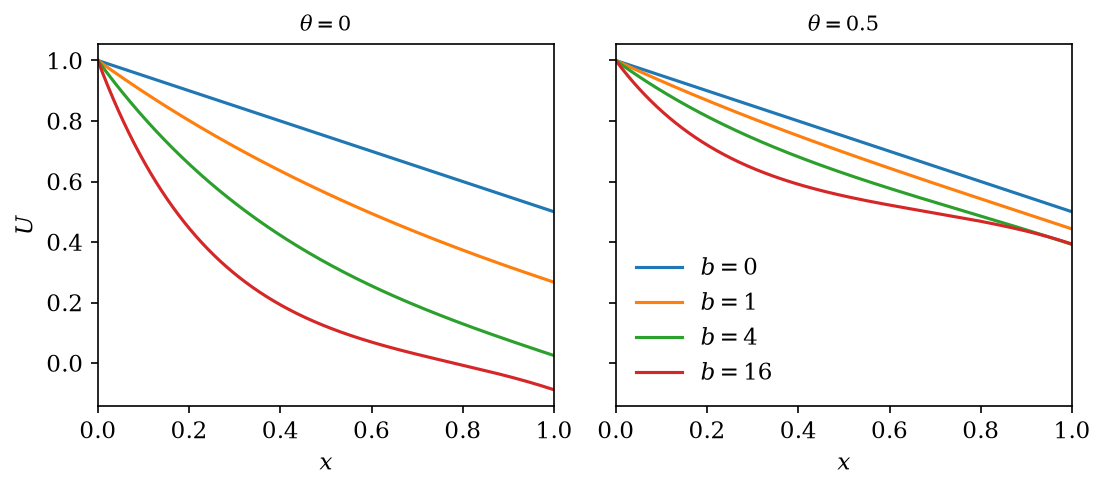
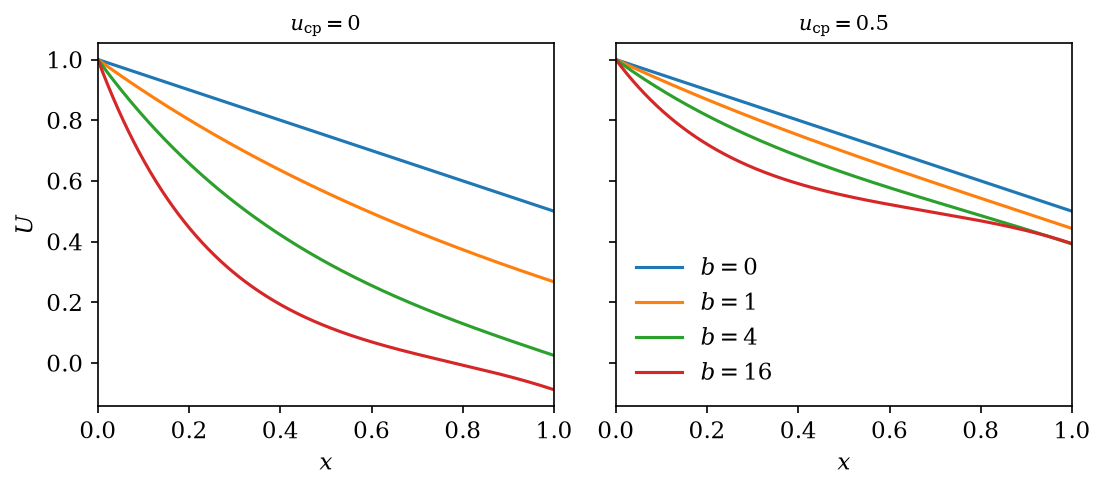
Use u_sr notation, remove lecture references, extra remarks and variant mentions in text

diff --git a/theor_1.tex b/theor_1.tex
@@ -1,5 +1,5 @@
 \section{Вывод уравнения теплопроводности и граничных условий}\label{sec:deriv}
-Рассмотрим тонкий однородный стержень длины $l$, расположенный вдоль оси $Ox$, с постоянным поперечным сечением площади $S$ и периметром сечения $P$. Стержень тонкий, поэтому температуру во всех точках сечения считаем одинаковой и равной $u(x,t)$. Обозначим: $\rho$~--- плотность, $c$~--- удельная теплоёмкость, $k$~--- коэффициент теплопроводности, $F(x,t)$~--- плотность тепловых источников, $\theta(x,t)$~--- температура окружающей среды, $h$~--- коэффициент теплообмена с окружающей средой.
+Рассмотрим тонкий однородный стержень длины $l$, расположенный вдоль оси $Ox$, с постоянным поперечным сечением площади $S$ и периметром сечения $P$. Стержень тонкий, поэтому температуру во всех точках сечения считаем одинаковой и равной $u(x,t)$. Обозначим: $\rho$~--- плотность, $c$~--- удельная теплоёмкость, $k$~--- коэффициент теплопроводности, $F(x,t)$~--- плотность тепловых источников, $u_{\text{ср}}(x,t)$~--- температура окружающей среды, $h$~--- коэффициент теплообмена с окружающей средой.
 
 \textbf{Уравнение.} Выделим малый участок стержня между сечениями $x$ и $x+\Delta x$ и составим для него баланс тепла за время от $t$ до $t+\Delta t$.
 
@@ -15,20 +15,20 @@ Q_1=S\bigl(q(x,t)-q(x+\Delta x,t)\bigr)\Delta t\approx -S\,q_x\,\Delta x\,\Delta
 
 Через боковую поверхность участка (стенки) площадью $P\Delta x$ происходит теплообмен со средой по закону Ньютона: поток пропорционален разности температур стержня и среды. Теплота, полученная участком от среды,
 \[
-Q_2=-h\bigl(u-\theta\bigr)P\,\Delta x\,\Delta t .
+Q_2=-h\bigl(u-u_{\text{ср}}\bigr)P\,\Delta x\,\Delta t .
 \]
 
 Тепло, выделенное источниками, равно $Q_3=F\,S\,\Delta x\,\Delta t$.
 
 Приравнивая $\Delta Q=Q_1+Q_2+Q_3$, деля на $c\rho S\Delta x\Delta t$ и устремляя $\Delta x,\Delta t\to0$, получаем
 \[
-u_t=\frac{k}{c\rho}u_{xx}-\frac{hP}{c\rho S}\bigl(u-\theta\bigr)+\frac{F}{c\rho},
+u_t=\frac{k}{c\rho}u_{xx}-\frac{hP}{c\rho S}\bigl(u-u_{\text{ср}}\bigr)+\frac{F}{c\rho},
 \]
 то есть уравнение задачи
 \[
-u_t=a^2u_{xx}-bu+f(x,t),\qquad a^2=\frac{k}{c\rho},\quad b=\frac{hP}{c\rho S},\quad f=\frac{F}{c\rho}+b\,\theta .
+u_t=a^2u_{xx}-bu+f(x,t),\qquad a^2=\frac{k}{c\rho},\quad b=\frac{hP}{c\rho S},\quad f=\frac{F}{c\rho}+b\,u_{\text{ср}} .
 \]
-Для круглого сечения радиуса $R$ имеем $P/S=2/R$ и $b=2h/(c\rho R)$, что совпадает с уравнением (18) лекции 22. Если боковая поверхность теплоизолирована, то $h=0$ и $b=0$.
+Если боковая поверхность теплоизолирована, то $h=0$ и $b=0$.
 
 \textbf{Граничные условия.} Рассмотрим малый участок $[0,\Delta x]$ у левого торца. Через торец в него поступает извне поток $q_0(t)$, через сечение $\Delta x$ уходит поток $q(\Delta x,t)$:
 \[
@@ -36,13 +36,9 @@ c\rho S\Delta x\,u_t\,\Delta t=\bigl(q_0(t)-q(\Delta x,t)\bigr)S\Delta t+O(\Delt
 \]
 При $\Delta x\to0$ получаем $q(0,t)=q_0(t)$, то есть $-k\,u_x(0,t)=q_0(t)$: поток в стержне у торца равен потоку, подводимому через торец. Аналогично у правого торца $-k\,u_x(l,t)=q_l(t)$, где $q_l$~--- поток, уходящий через торец $x=l$ наружу.
 
-\emph{Торец $x=0$ (I род).} Пусть через торец идёт теплообмен со средой температуры $\theta_0(t)$ по закону Ньютона с коэффициентом $h_0$: $q_0=h_0(\theta_0-u(0,t))$. Тогда
+\emph{Торец $x=0$ (I род).} На торце поддерживается заданная температура: $u(0,t)=\mu(t)$, т.\,е.
 \[
-h_0u(0,t)-k\,u_x(0,t)=h_0\theta_0(t).
-\]
-Если контакт со средой очень хороший ($h_0\to\infty$), то после деления на $h_0$ остаётся $u(0,t)=\theta_0(t)$: на торце поддерживается заданная температура. В обозначениях задачи
-\[
-\alpha=1,\quad\beta=0,\quad \mu(t)=\theta_0(t).
+\alpha=1,\quad\beta=0 .
 \]
 
 \emph{Торец $x=l$ (II род).} Через торец задан тепловой поток $q_l(t)$: $-k\,u_x(l,t)=q_l(t)$. Деля на $k$, получаем
@@ -51,7 +47,7 @@ h_0u(0,t)-k\,u_x(0,t)=h_0\theta_0(t).
 \]
 При $\nu=0$ торец теплоизолирован.
 
-Итак, для варианта 11 задача имеет вид
+Итак, задача имеет вид
 \[
 \begin{cases}
 u_t=a^2u_{xx}-bu+f(x,t), & 0<x<l,\ t>0,\\
@@ -60,4 +56,4 @@ u(0,t)=\mu(t),\\
 -u_x(l,t)=\nu(t),
 \end{cases}
 \]
-где по таблице вариантов $\mu(t)=A\cos(\omega_1t)+B\sin(\omega_2t)$, $\nu(t)=0$.
+где $\mu(t)=A\cos(\omega_1t)+B\sin(\omega_2t)$, $\nu(t)=0$.

diff --git a/prac_4.tex b/prac_4.tex
@@ -1,35 +1,35 @@
 \section{Задача 4}
-Решаем задачу 2 при теплообмене через боковую поверхность со средой температуры $\theta=\mathrm{const}$ (п.~\ref{sec:deriv}: $b=\frac{hP}{c\rho S}>0$, $f=b\theta$):
+Решаем задачу 2 при теплообмене через боковую поверхность со средой температуры $u_{\text{ср}}=\mathrm{const}$ (п.~\ref{sec:deriv}: $b=\frac{hP}{c\rho S}>0$, $f=bu_{\text{ср}}$):
 \[
-u_t=a^2u_{xx}-b(u-\theta),\qquad u(x,0)=x,\qquad u(0,t)=A,\qquad -u_x(l,t)=B .
+u_t=a^2u_{xx}-b(u-u_{\text{ср}}),\qquad u(x,0)=x,\qquad u(0,t)=A,\qquad -u_x(l,t)=B .
 \]
 Обозначим $\kappa=\sqrt b/a$.
 
-\textbf{Температура среды равна нулю} ($\theta=0$). Стационарный режим: $U''-\kappa^2U=0$, $U(0)=A$, $U'(l)=-B$. Из $U=C_1\operatorname{ch}\kappa x+C_2\operatorname{sh}\kappa x$ находим $C_1=A$, $C_2=-\frac{A\operatorname{sh}\kappa l+B/\kappa}{\operatorname{ch}\kappa l}$, т.\,е.
+\textbf{Температура среды равна нулю} ($u_{\text{ср}}=0$). Стационарный режим: $U''-\kappa^2U=0$, $U(0)=A$, $U'(l)=-B$. Из $U=C_1\operatorname{ch}\kappa x+C_2\operatorname{sh}\kappa x$ находим $C_1=A$, $C_2=-\frac{A\operatorname{sh}\kappa l+B/\kappa}{\operatorname{ch}\kappa l}$, т.\,е.
 \[
 U_0(x)=\frac{A\operatorname{ch}\kappa(l-x)-\frac B\kappa\operatorname{sh}\kappa x}{\operatorname{ch}\kappa l}.
 \]
 
-\textbf{Температура среды постоянна.} Замена $u=\theta+w$ приводит к случаю $\theta=0$ для $w$ с $A$, заменённым на $A-\theta$ ($B$ не меняется), поэтому
+\textbf{Температура среды постоянна.} Замена $u=u_{\text{ср}}+w$ приводит к случаю $u_{\text{ср}}=0$ для $w$ с $A$, заменённым на $A-u_{\text{ср}}$ ($B$ не меняется), поэтому
 \[
-U(x)=\theta+\frac{(A-\theta)\operatorname{ch}\kappa(l-x)-\frac B\kappa\operatorname{sh}\kappa x}{\operatorname{ch}\kappa l}.
+U(x)=u_{\text{ср}}+\frac{(A-u_{\text{ср}})\operatorname{ch}\kappa(l-x)-\frac B\kappa\operatorname{sh}\kappa x}{\operatorname{ch}\kappa l}.
 \]
 
-\textbf{Полное решение.} Функция $v=u-U$ решает задачу $v_t=a^2v_{xx}-bv$, $v(0,t)=0$, $v_x(l,t)=0$, $v(x,0)=x-U(x)$, поэтому $v=\sum D_ne^{-(a^2p_n^2+b)t}\sin p_nx$. Коэффициенты $U$ находим, умножая $U''=\kappa^2(U-\theta)$ на $\sin p_nx$ и дважды интегрируя по частям:
+\textbf{Полное решение.} Функция $v=u-U$ решает задачу $v_t=a^2v_{xx}-bv$, $v(0,t)=0$, $v_x(l,t)=0$, $v(x,0)=x-U(x)$, поэтому $v=\sum D_ne^{-(a^2p_n^2+b)t}\sin p_nx$. Коэффициенты $U$ находим, умножая $U''=\kappa^2(U-u_{\text{ср}})$ на $\sin p_nx$ и дважды интегрируя по частям:
 \[
-\frac2l\int_0^lU\sin p_nx\,dx=\frac2l\cdot\frac{Ap_n+(-1)^nB+\kappa^2\theta/p_n}{p_n^2+\kappa^2}.
+\frac2l\int_0^lU\sin p_nx\,dx=\frac2l\cdot\frac{Ap_n+(-1)^nB+\kappa^2u_{\text{ср}}/p_n}{p_n^2+\kappa^2}.
 \]
 Итак,
 \[
-u(x,t)=U(x)+\sum_{n=1}^{\infty}\Bigl(\frac{2(-1)^{n+1}}{lp_n^2}-\frac2l\cdot\frac{Ap_n+(-1)^nB+\kappa^2\theta/p_n}{p_n^2+\kappa^2}\Bigr)e^{-(a^2p_n^2+b)t}\sin p_nx .
+u(x,t)=U(x)+\sum_{n=1}^{\infty}\Bigl(\frac{2(-1)^{n+1}}{lp_n^2}-\frac2l\cdot\frac{Ap_n+(-1)^nB+\kappa^2u_{\text{ср}}/p_n}{p_n^2+\kappa^2}\Bigr)e^{-(a^2p_n^2+b)t}\sin p_nx .
 \]
 При $b=0$ ($\kappa\to0$) формула переходит в решение задачи 2.
 
-\textbf{Анализ.} Решение стремится к $U$, причём быстрее, чем в задаче 2: показатели затухания увеличились на $b$. С ростом $b$ профиль отходит от прямой $A-Bx$ и внутри стержня приближается к температуре среды $\theta$; отличие от $\theta$ сохраняется в слое толщины порядка $1/\kappa$ у левого торца, где поддерживается температура $A$ (рис.~\ref{fig:p4}). Температура правого торца
+\textbf{Анализ.} Решение стремится к $U$, причём быстрее, чем в задаче 2: показатели затухания увеличились на $b$. С ростом $b$ профиль отходит от прямой $A-Bx$ и внутри стержня приближается к температуре среды $u_{\text{ср}}$; отличие от $u_{\text{ср}}$ сохраняется в слое толщины порядка $1/\kappa$ у левого торца, где поддерживается температура $A$ (рис.~\ref{fig:p4}). Температура правого торца
 \[
-U(l)=\theta+\frac{A-\theta-\frac B\kappa\operatorname{sh}\kappa l}{\operatorname{ch}\kappa l}.
+U(l)=u_{\text{ср}}+\frac{A-u_{\text{ср}}-\frac B\kappa\operatorname{sh}\kappa l}{\operatorname{ch}\kappa l}.
 \]
-При $\theta=0$ и $B>0$ она может стать отрицательной: тепло уходит и через боковую поверхность, и через правый торец.
+При $u_{\text{ср}}=0$ и $B>0$ она может стать отрицательной: тепло уходит и через боковую поверхность, и через правый торец.
 \begin{figure}[H]
 \centering
 \includegraphics[width=0.95\textwidth]{p4}

diff --git a/theor_4.tex b/theor_4.tex
@@ -15,6 +15,6 @@ v(x,t)=\int_0^lG(x,\xi,t)\bigl(\varphi(\xi)-U(\xi)\bigr)d\xi .
 
 \textbf{Неоднородность уравнения} $f(x)$ (источники и температура среды) входит в уравнение для $U$ и определяет форму стационарного профиля. Если $f$ зависит от $t$, стационарного режима, вообще говоря, нет.
 
-\textbf{Начальные условия} в задачу для $U$ не входят и на стационарный режим не влияют: от $\varphi$ зависит только затухающая часть $v$. Исключение~--- случай $b=0$ с теплоизолированными обоими торцами: тогда есть собственное значение $\lambda_0=0$, слагаемое с $e^{0\cdot t}$ не затухает и стационарная температура равна среднему значению $\varphi$ (практическая задача 1). В варианте 11 левый торец имеет условие I рода, поэтому такого случая нет.
+\textbf{Начальные условия} в задачу для $U$ не входят и на стационарный режим не влияют: от $\varphi$ зависит только затухающая часть $v$. Исключение~--- случай $b=0$ с теплоизолированными обоими торцами: тогда есть собственное значение $\lambda_0=0$, слагаемое с $e^{0\cdot t}$ не затухает и стационарная температура равна среднему значению $\varphi$ (практическая задача 1).
 
-\textbf{Неоднородности граничных условий} $\mu_0,\nu_0$ входят в граничные условия для $U$ и вместе с $f$ полностью определяют стационарный режим; при $f=0$ и однородных граничных условиях $U\equiv0$. Если $\mu$ или $\nu$ зависят от времени (как в варианте 11), стационарного режима нет, а при больших $t$ температура следует за изменением граничных условий (практическая задача 3).
+\textbf{Неоднородности граничных условий} $\mu_0,\nu_0$ входят в граничные условия для $U$ и вместе с $f$ полностью определяют стационарный режим; при $f=0$ и однородных граничных условиях $U\equiv0$. Если $\mu$ или $\nu$ зависят от времени, стационарного режима нет, а при больших $t$ температура следует за изменением граничных условий (практическая задача 3).

diff --git a/main.tex b/main.tex
@@ -23,6 +23,19 @@
 \setcounter{page}{2}
 \onehalfspacing\setlength{\parindent}{1.25cm}
 \tableofcontents
+\vspace{2em}
+\begin{center}
+\textbf{Вариант 11}\par\medskip
+\begin{tabular}{|c|c|c|c|}
+\hline
+\multicolumn{2}{|c|}{Тип граничного условия} & \multicolumn{2}{c|}{Неоднородность}\\
+\hline
+$x=0$ & $x=l$ & $x=0$ & $x=l$\\
+\hline
+1 & 2 & $A\cos(\omega_1t)+B\sin(\omega_2t)$ & 0\\
+\hline
+\end{tabular}
+\end{center}
 \chapter{Теоретическая часть}
 \input{theor_1}
 \input{theor_3}

diff --git a/prac_2.tex b/prac_2.tex
@@ -1,5 +1,5 @@
 \section{Задача 2}
-Граничные условия варианта 11 (I род на $x=0$, II род на $x=l$) с постоянными неоднородностями:
+Рассматриваем задачу 1 с неоднородными граничными условиями I рода на левом торце и II рода на правом, неоднородности постоянны:
 \[
 u_t=a^2u_{xx},\qquad u(x,0)=x,\qquad u(0,t)=A,\qquad -u_x(l,t)=B .
 \]

diff --git a/prac_3.tex b/prac_3.tex
@@ -1,5 +1,5 @@
 \section{Задача 3}
-Решаем задачу 1 ($b=0$, $f=0$, $\varphi=x$) с граничными условиями варианта 11:
+Решаем задачу 1 ($b=0$, $f=0$, $\varphi=x$) с неоднородными граничными условиями:
 \[
 u_t=a^2u_{xx},\qquad u(x,0)=x,\qquad u(0,t)=\mu(t)=A\cos\omega_1t+B\sin\omega_2t,\qquad -u_x(l,t)=0 .
 \]
